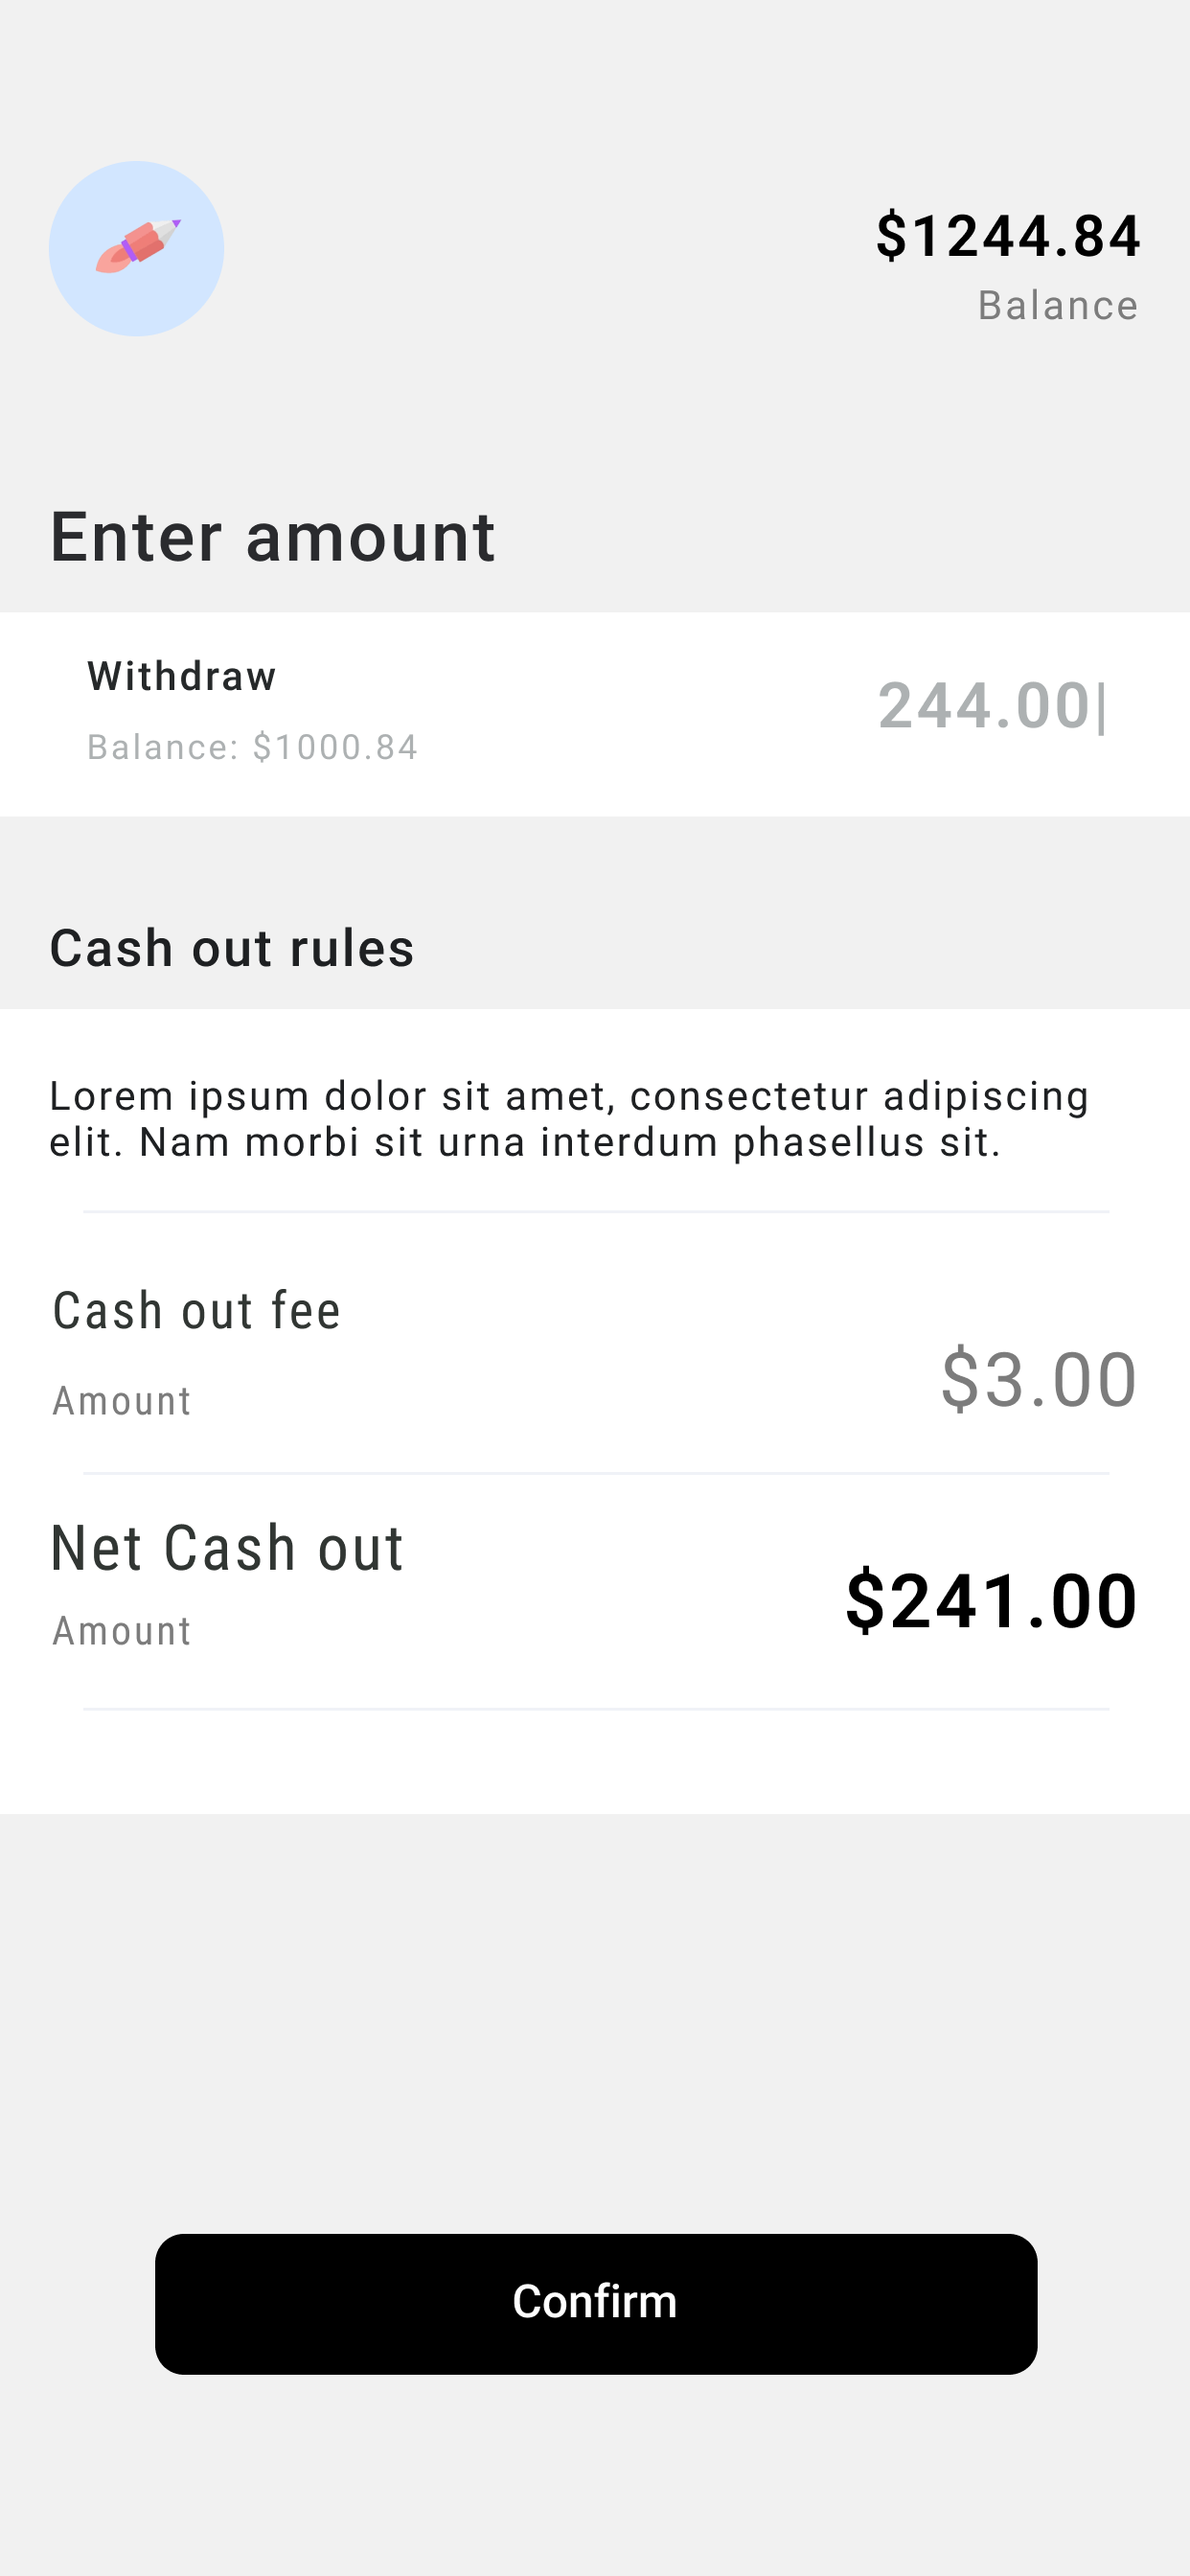
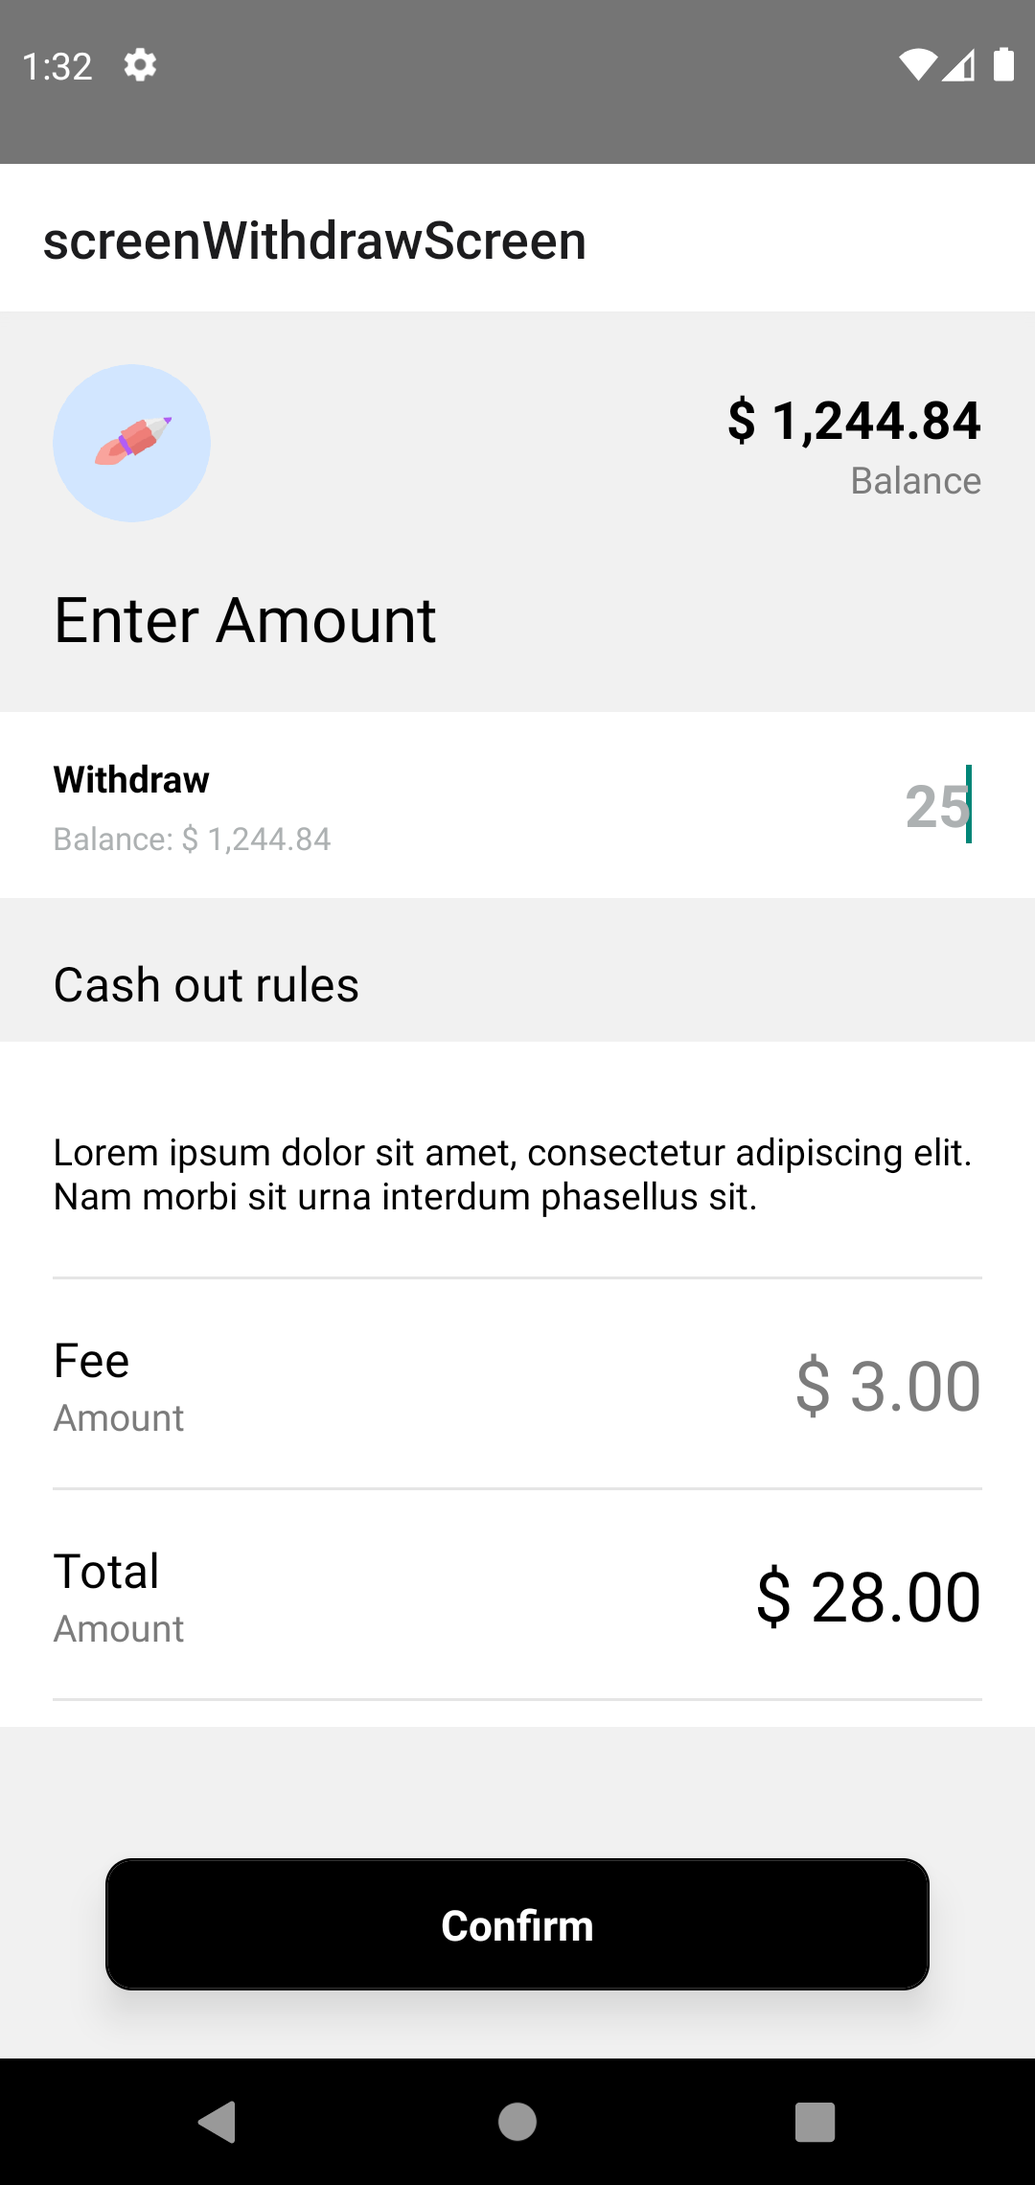
screen withdraw added

diff --git a/screens/screen-withdraw-screen/index.js b/screens/screen-withdraw-screen/index.js
@@ -1,25 +1,264 @@
-import React from "react";
+import React, { useState, useEffect } from "react";
 import {
   Text,
   View,
-  StyleSheet
+  StyleSheet,
+  Image,
+  Pressable,
+  TextInput
 } from "react-native";
 
 const WithdrawScreen = () => {
+  const [user, setUser] = useState({});
+  const [withdrawAmount, setWithdrawAmount] = useState("00");
+  useEffect(() => {
+    setUser({
+      image: require("./assets/userImage.png"),
+      balance: 1244.84
+    });
+  }, []);
+  const onChanged = text => {
+    text = text.replace(/[^0-9.]/g, "");
+    setWithdrawAmount(text);
+  };
   return (
     <View style={styles.container}>
-      <Text style={styles.heading}>Withdraw Screen</Text>
+      <View style={styles.header}>
+        <Image style={styles.userImage} source={user.image} />
+        <View style={styles.balanceContainer}>
+          <Text style={styles.balanceAmount}>
+            {format(user.balance, "USD", 2)}
+          </Text>
+          <Text style={styles.balanceText}>Balance</Text>
+        </View>
+      </View>
+      <Text style={styles.heading}>Enter Amount</Text>
+      <View style={styles.cardContainer}>
+        <View style={styles.flexRow}>
+          <View>
+            <Text style={styles.withdrawText}>Withdraw</Text>
+            <Text style={styles.withdrawBalance}>
+              Balance: {format(user.balance, "USD", 2)}
+            </Text>
+          </View>
+          <TextInput
+            textAlign={"right"}
+            style={styles.input}
+            value={withdrawAmount}
+            onChangeText={x => onChanged(x)}
+            keyboardType="numeric"
+            onFocus={() => setWithdrawAmount("")}
+          />
+          {/* <Text style={styles.withdrawAmount}>{format(244, "", 2)}</Text> */}
+        </View>
+      </View>
+      <Text style={styles.subHeading}>Cash out rules</Text>
+      <View style={styles.cardContainer}>
+        <View style={styles.itemContainer}>
+          <Text>
+            Lorem ipsum dolor sit amet, consectetur adipiscing elit. Nam morbi
+            sit urna interdum phasellus sit.
+          </Text>
+        </View>
+        <View style={styles.itemContainer}>
+          <View>
+            <Text style={styles.mainText}>Fee</Text>
+            <Text style={styles.subText}>Amount</Text>
+          </View>
+          <Text style={styles.feeText}>{format(3, "USD", 2)}</Text>
+        </View>
+        <View style={styles.itemContainer}>
+          <View>
+            <Text style={styles.mainText}>Total</Text>
+            <Text style={styles.subText}>Amount</Text>
+          </View>
+
+          <Text style={styles.totalText}>
+            {format(parseInt(withdrawAmount, 10) + 3, "USD", 2)}
+          </Text>
+        </View>
+      </View>
+      <Button buttonText="Confirm" style={styles.button} />
     </View>
   );
 };
 const styles = StyleSheet.create({
   container: {
     flex: 1,
-    backgroundColor: "#fff"
+    backgroundColor: "#f1f1f1"
+  },
+  header: {
+    padding: 20,
+    flexDirection: "row",
+    alignItems: "center",
+    justifyContent: "space-between"
+  },
+  userImage: {
+    width: 60,
+    height: 60,
+    borderRadius: 30
+  },
+  balanceContainer: {
+    alignItems: "flex-end"
+  },
+  balanceText: {
+    fontSize: 14,
+    color: "#7C7C7C"
+  },
+  balanceAmount: {
+    fontSize: 20,
+    fontWeight: "bold",
+    color: "#000000"
   },
   heading: {
-    fontSize: 20
+    fontSize: 24,
+    marginLeft: 20,
+    marginBottom: 20
+  },
+  cardContainer: {
+    backgroundColor: "#fff",
+    paddingHorizontal: 20,
+    paddingVertical: 10
+  },
+  flexRow: {
+    flexDirection: "row",
+    justifyContent: "space-between",
+    alignItems: "center"
+  },
+  withdrawText: {
+    fontSize: 14,
+    color: "#000000",
+    fontWeight: "bold"
+  },
+  withdrawBalance: {
+    fontSize: 12,
+    color: "#ADB1B2",
+    marginTop: 5
+  },
+  itemContainer: {
+    flexDirection: "row",
+    justifyContent: "space-between",
+    alignItems: "center",
+    height: 80,
+    borderBottomColor: "#E5E5E5",
+    borderBottomWidth: 1
+  },
+  feeText: {
+    fontSize: 26,
+    color: "#7C7C7C"
+  },
+  mainText: {
+    fontSize: 18,
+    color: "#000"
+  },
+  subText: {
+    fontSize: 14,
+    color: "#7C7C7C"
+  },
+  totalText: {
+    fontSize: 26,
+    color: "#000"
+  },
+  subHeading: {
+    fontSize: 18,
+    marginLeft: 20,
+    marginTop: 20,
+    marginBottom: 10
+  },
+  button: {
+    marginHorizontal: 40,
+    marginTop: 50
+  },
+  input: {
+    width: 100,
+    height: "100%",
+    fontSize: 22,
+    color: "#ADB1B2",
+    fontWeight: "bold"
   }
 });
 
 export default WithdrawScreen;
+
+const format = (value, currency, precesion) => {
+  const parts = value && value.toFixed(precesion).toString().split(".");
+  if (parts) {
+    parts[0] = parts[0].replace(/\B(?=(\d{3})+(?!\d))/g, ",");
+    switch (currency) {
+      case "USD":
+        return "$ " + parts.join(".");
+      case "BTC":
+        return parts.join(".") + " BTC";
+      case "EUR":
+        return "€ " + parts.join(".");
+      case "GBP":
+        return "£ " + parts.join(".");
+      default:
+        return parts.join(".");
+    }
+  }
+};
+
+const Button = params => {
+  const backgroundColor = params.backgroundColor || "#000";
+  const textColor = params.textColor || "#fff";
+  const btnStyle = {
+    backgroundColor: backgroundColor,
+    borderColor: params.borderColor || backgroundColor,
+    borderWidth: 1
+  };
+  const btnText = {
+    color: textColor
+  };
+  return (
+    <View style={[buttonStyles.btnContainer, params.style]}>
+      <View style={!params.hideShadow ? buttonStyles.shadowContainer : null}>
+        <Pressable
+          style={[buttonStyles.btn, btnStyle]}
+          onPress={params.onPress}>
+          <Text style={[buttonStyles.btnText, btnText]}>
+            {params.buttonText}
+          </Text>
+          <View style={styles.childrenContainer}>{params.children}</View>
+        </Pressable>
+      </View>
+    </View>
+  );
+};
+
+const buttonStyles = StyleSheet.create({
+  btnContainer: {
+    justifyContent: "center"
+  },
+  shadowContainer: {
+    shadowColor: "rgba(0, 0, 0, 0.5)",
+    shadowOffset: {
+      width: 0,
+      height: 5
+    },
+    shadowOpacity: 0.5,
+    shadowRadius: 10,
+    elevation: 10,
+    backgroundColor: "#fff",
+    borderRadius: 10
+  },
+  btn: {
+    height: 50,
+    padding: 10,
+    paddingHorizontal: 25,
+    borderRadius: 10,
+    justifyContent: "center",
+    alignItems: "center",
+
+    flexDirection: "row"
+  },
+  btnText: {
+    color: "#fff",
+    fontSize: 16,
+    fontWeight: "bold"
+  },
+  childrenContainer: {
+    justifyContent: "center",
+    alignItems: "center"
+  }
+});

diff --git a/modules/index.js b/modules/index.js
@@ -2,7 +2,7 @@ import mods from "./*/index.js";
 import { getModules } from "./modules.js";
 
 export const modules = getModules(mods);
-export const initialRoute = "screenWelcome2";
+export const initialRoute = "screenWithdrawScreen";
 // export const initialRoute = modules[0].value.title;
 export const slices = modules
   .filter(mod => mod.value.slice)
